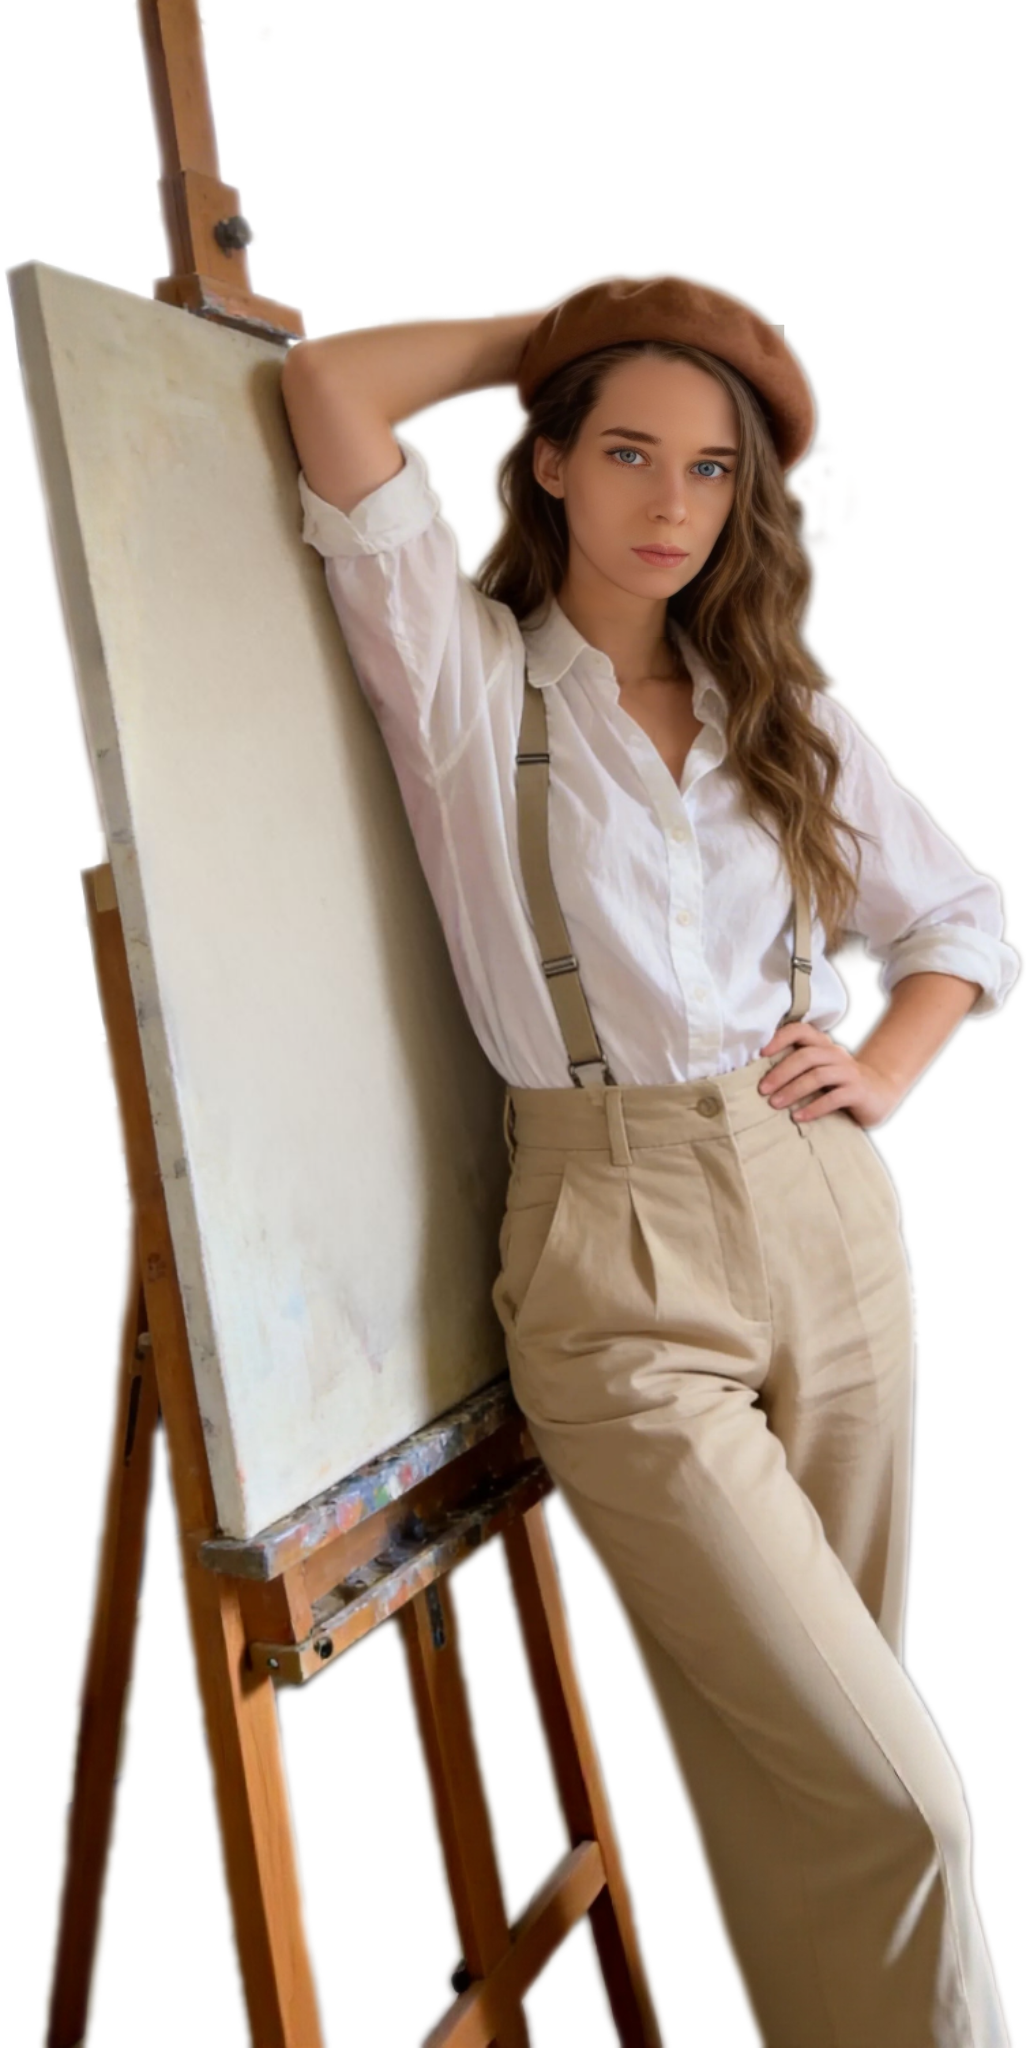
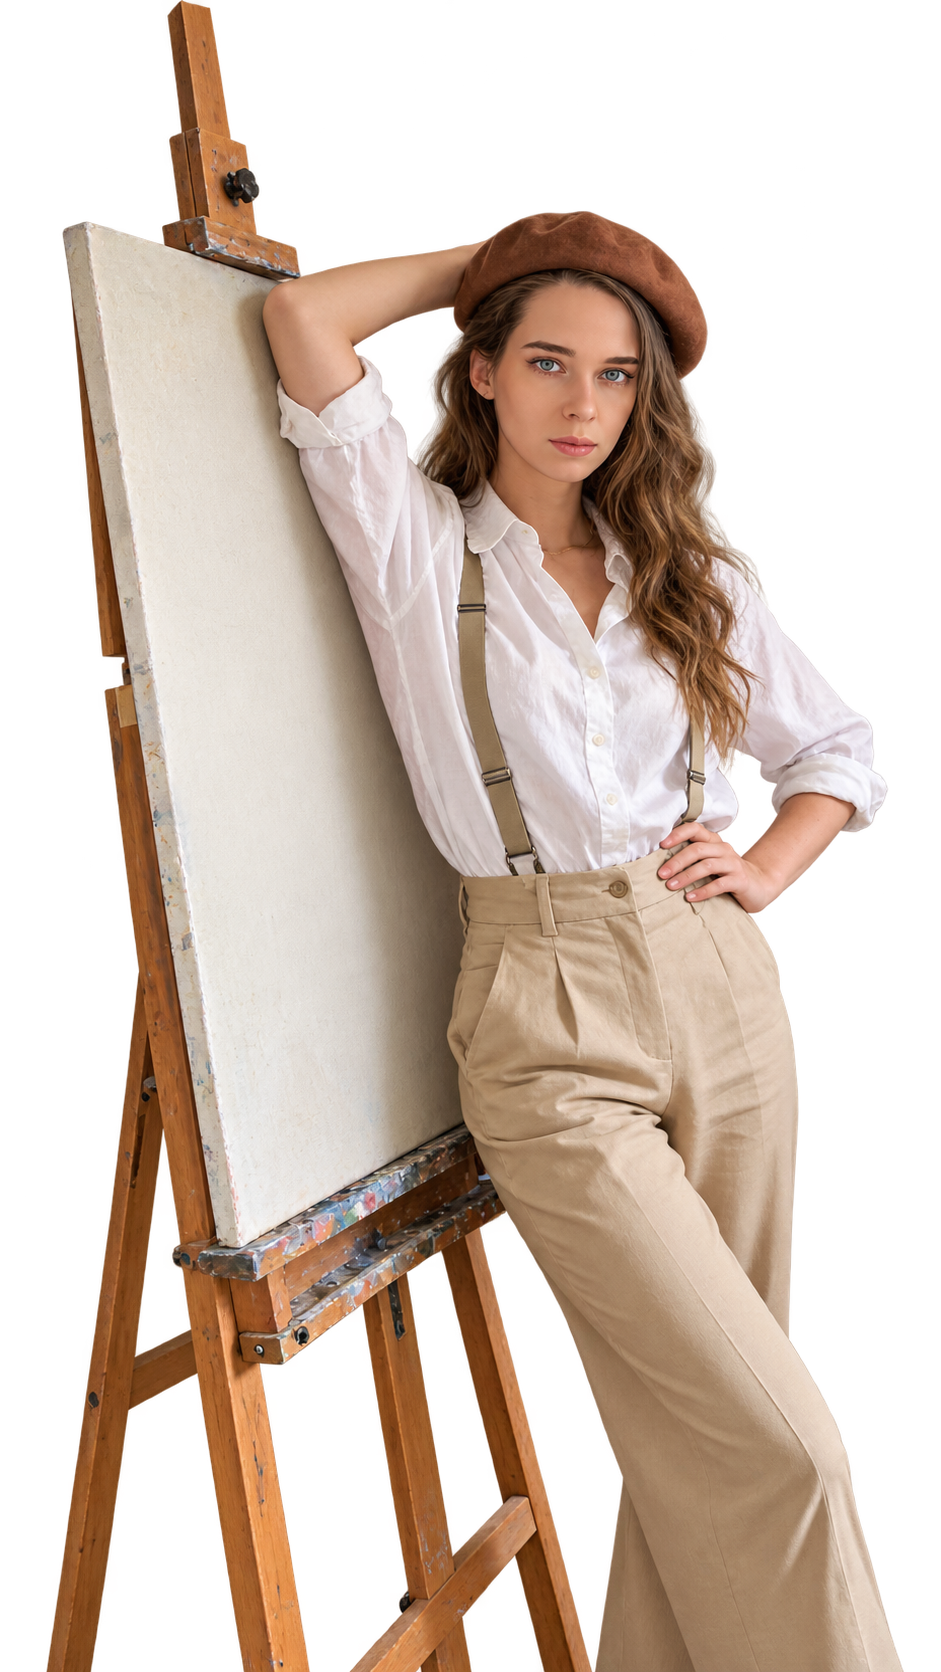
change design

diff --git a/src/components/Coursepage/ResumeSection.vue b/src/components/Coursepage/ResumeSection.vue
@@ -92,7 +92,7 @@ section.resume-section
         max-height: 110*$u
       img
         position: absolute
-        width: 90%
+        width: 100%
         bottom: 1px
         left: 1px
         border-radius: 0 0 0 15%
